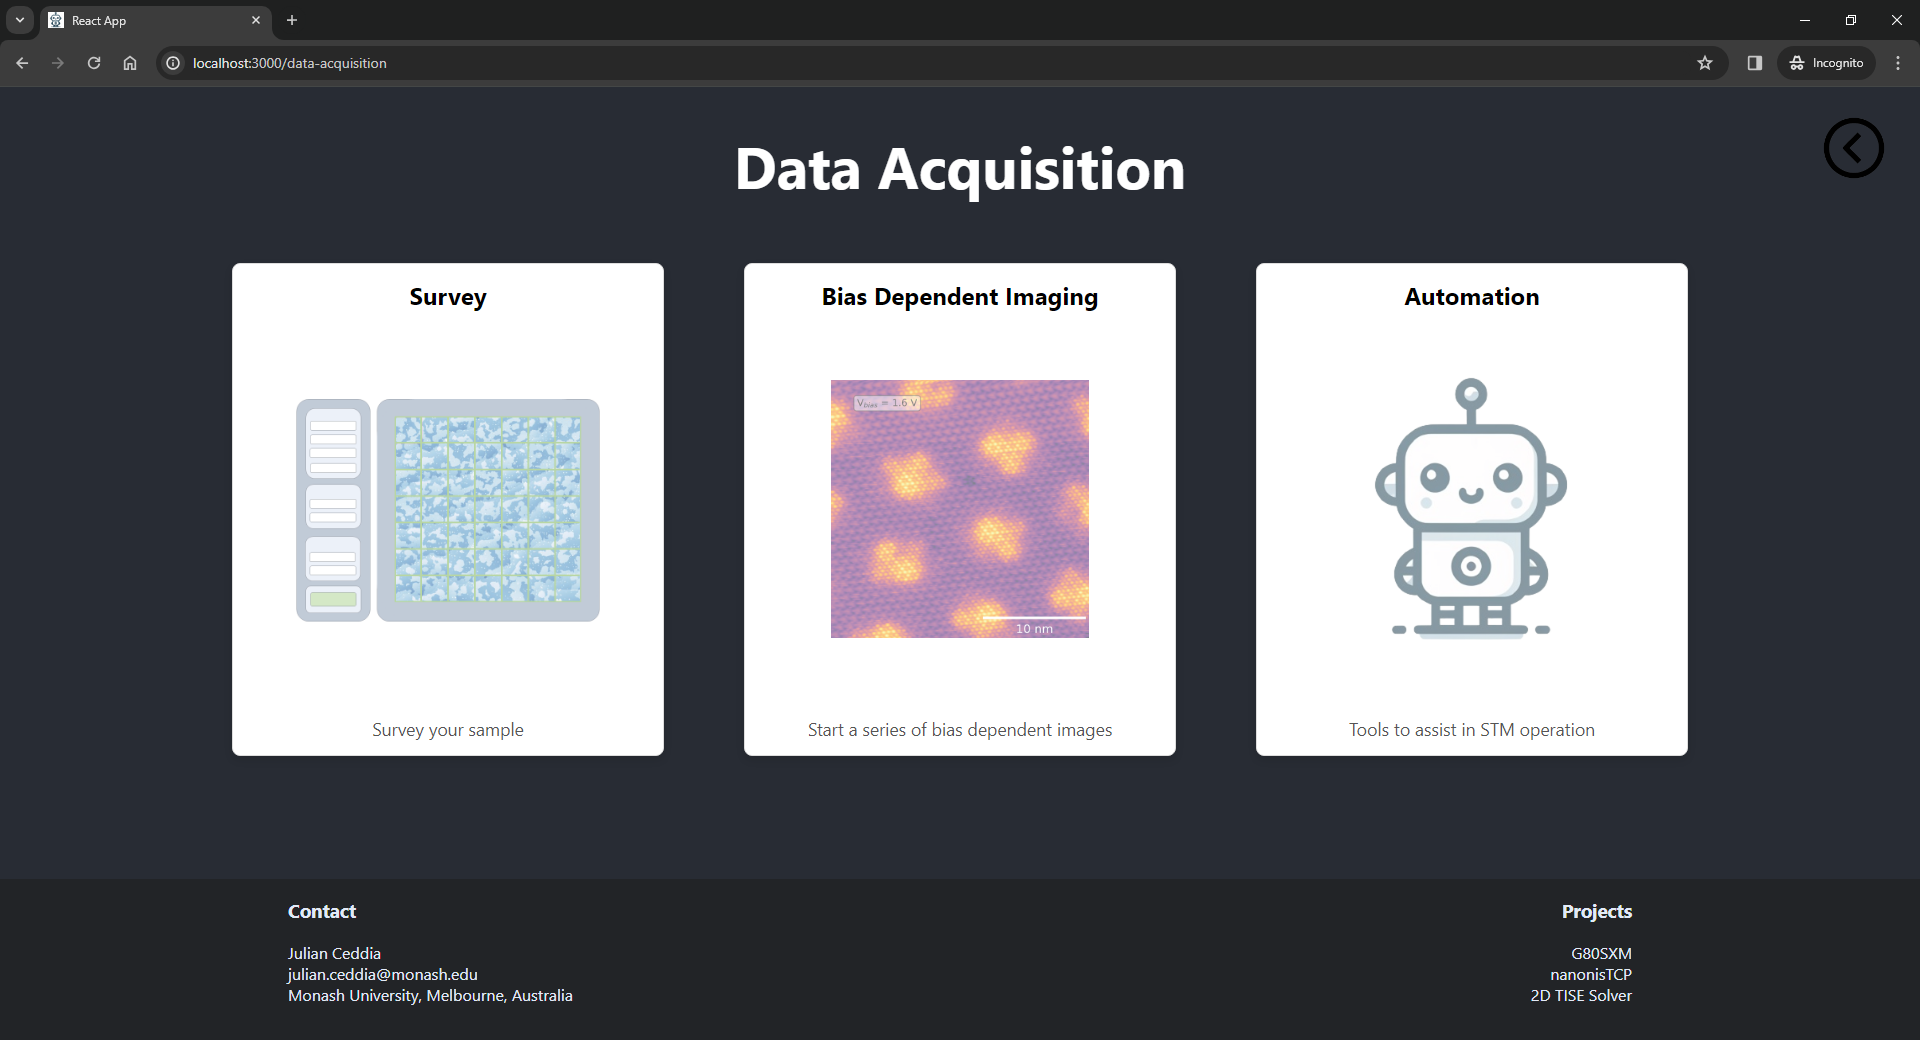
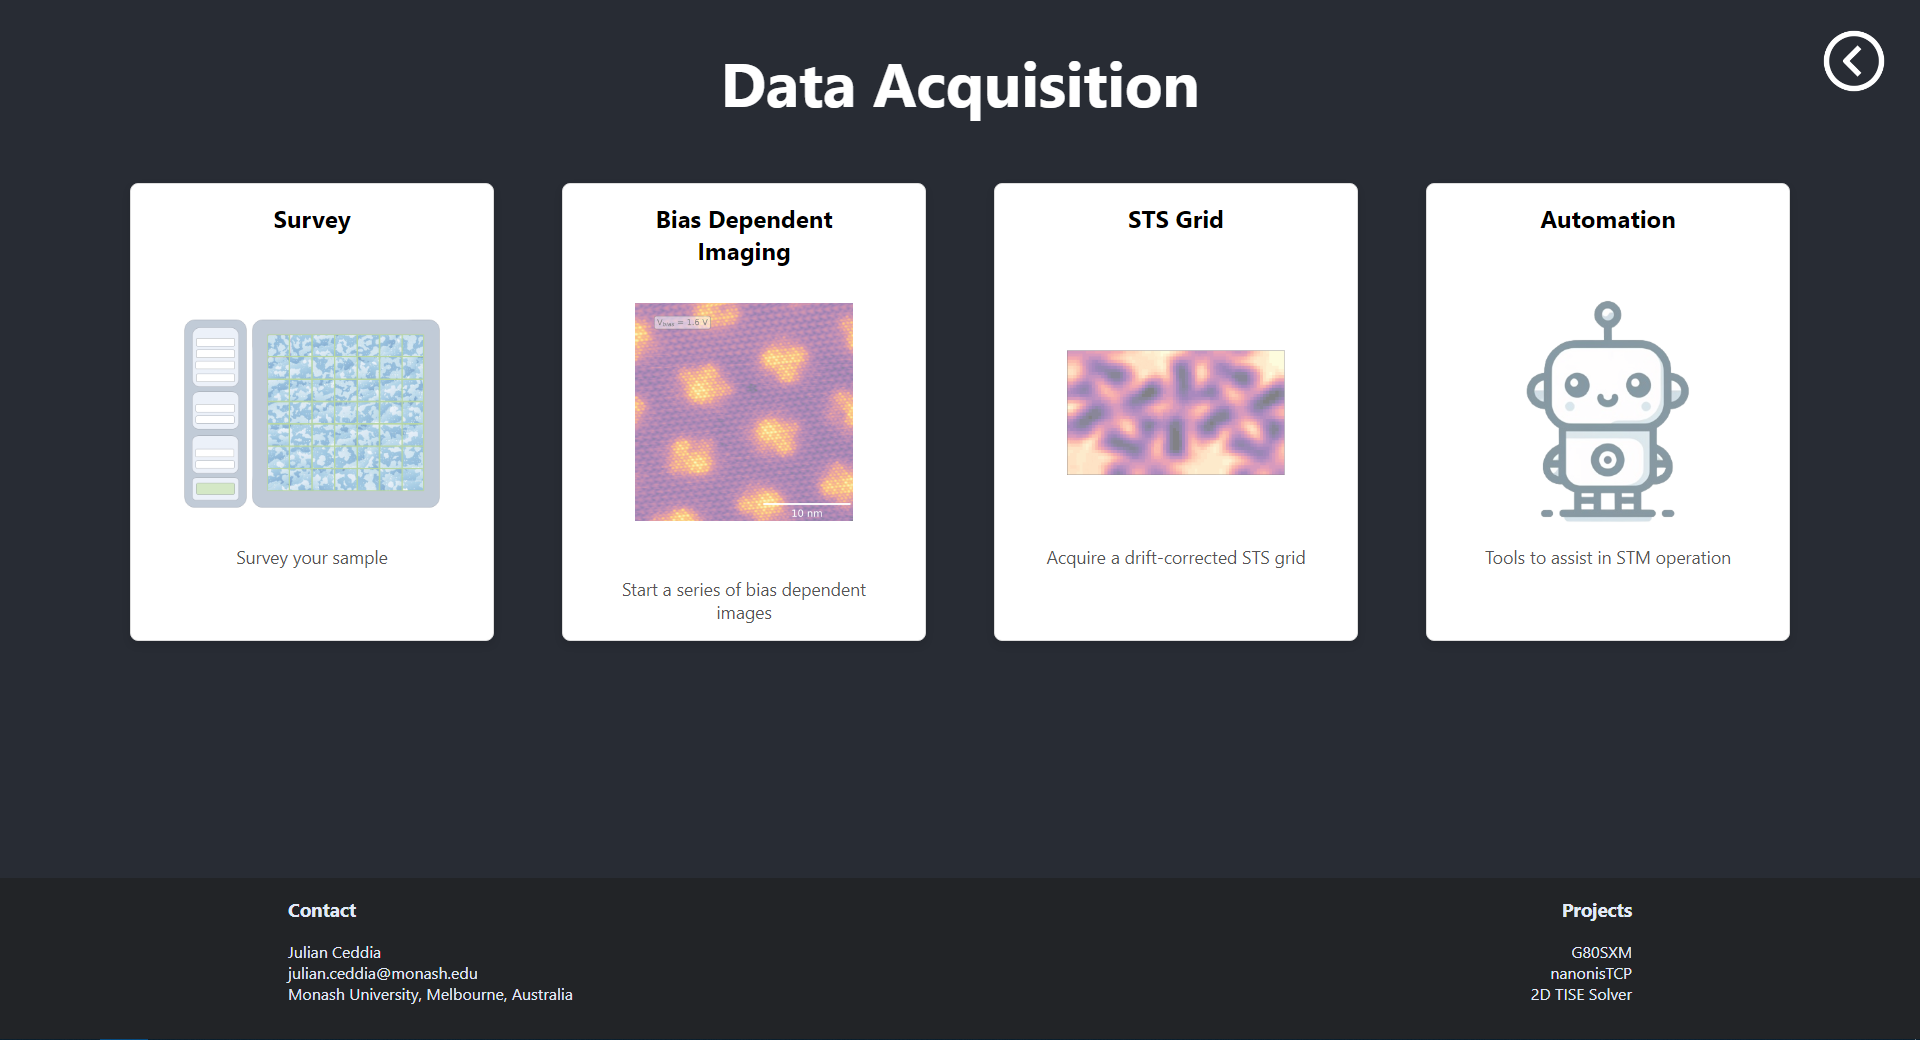
Deployed 6dda806 with MkDocs version: 1.5.3

diff --git a/web-app/index.html b/web-app/index.html
@@ -133,6 +133,10 @@
               <ul class="nav flex-column">
               </ul>
             </li>
+            <li class="nav-item" data-level="2"><a href="#sts-grid" class="nav-link">STS Grid</a>
+              <ul class="nav flex-column">
+              </ul>
+            </li>
               </ul>
             </li>
             
@@ -371,6 +375,94 @@ Note that answering <code>Yes</code> to <code>Auto tip shaping?</code>, is only 
 </tr>
 </tbody>
 </table>
+<h2 id="sts-grid">STS Grid</h2>
+<p>The STS Grid function lets you acquire a drift-corrected STS map.
+The plot area will show the latest drift-correction image alongside a gif of previous drift-correction images to keep track of overall drift during the experiment.
+The process of the experiment is as follows:</p>
+<ol>
+<li>The existing Pattern Grid is loaded in from Nanonis.</li>
+<li>A check is carried out to ensure the STM tip and the grid centre are both within the current scan frame. If not, the scan will not start.</li>
+<li>An image is taken in the upward scan direction as a reference to measure future drift. The image bias and setpoint can be configured in the settings.</li>
+<li>The bias and setpoint are adjusted to configured values, then tip moves to the first location in the grid.</li>
+<li>The STS setpoint current and bias is then applied before acquiring a spectrum.</li>
+<li>Steps 4 and 5 are repeated until a configurable number of spectra are taken. <strong>Note that the setpoint at which the tip moves between grid points can be different to that of the acquired spectra.<strong></strong></strong></li>
+<li>A drift correction image is acquired and compared with the original frame. If any drift is detected, the scan frame and grid centre are updated to compensate. <strong>Note that the bias and setpoint current of the drift correction images can be configured differently to that of the acquired spectra.</strong></li>
+<li>Steps 4 to 7 are repeated until the grid completes.</li>
+</ol>
+<p>The output grid data (apart from being autosaved as individual .dat files by Nanonis) will be saved in the specified directory in the form of a <a href="https://www.geeksforgeeks.org/understanding-python-pickling-example/">pickled</a> Python dictionary with the following structure:</p>
+<pre><code class="language-Python">grid_data['sweep_signal'] # contains the sweep signal, in this case it is the nanonis "bias calc (V)" signal
+grid_data[&lt;channel_name&gt;] # contains a 3D matrix of the grid data, where axis 0 and 1 are the spatial axes, while axis 2 is the measured signal axis.
+</code></pre>
+<p><strong>Note that <channel_name> can be any of the recorded channels highlighted in the Nanonis Bias Spectroscopy module.</channel_name></strong>
+The output grid file is never locked and will be updated in real-time after each spectrum within the grid is acquired.</p>
+<p><img alt="stsgridwindow" src="../appim/sts-grid.png"></p>
+<p>The following Python code shows how to visualise the output grid data:</p>
+<pre><code class="language-Python"># %%
+import pickle
+import matplotlib.pyplot as plt
+import numpy as np
+from scipy.signal import savgol_filter as savgol
+import matplotlib.animation as animation
+from scipy.ndimage import gaussian_filter as gaussian
+from scipy.stats import norm
+
+########## Parameters ##########
+path = "C:/Users/&lt;path to your folder/"                                         # Path where the grid data file is saved
+filename = "scanbot-sts-grid.pk"                                                # Filename of the grid data to plot
+channel  = 'Current (A)'                                                        # Channel to plot
+deriv    = True                                                                 # Take the derivative of the signal? (e.g. dIdV from current)
+bias     = -0.1                                                                 # Bias slice to plot from the grid data
+makeGif  = True                                                                 # Turn data into gif. can take a long time.
+gif_n    = 10                                                                   # Take every gif_nth slice in the grid so the gif isn't so large
+########## Parameters ##########
+
+pk = pickle.load(open(path + filename,'rb'))                                    # Loads in the .pk grid file
+
+data  = pk['data']
+sweep = data['sweep_signal']                                                    # Sweep signal is the bias for bias spectroscopy
+grid  = np.flipud(np.array(data[channel]))                                      # Extract the signal for the selected channel. Use np.flipud because the first point in the grid is at the bottom.
+if(deriv):
+    # increasing the window_lenth increases the smoothing before taking the derivative
+    grid = savgol(grid, window_length=3, polyorder=1, deriv=1, axis=2)          # Take the derivative to get dI/dV
+
+index = np.argmin(abs(sweep - bias))                                            # Index of the bias we want to plot
+gridSlice = grid[:,:,index].copy()                                              # Take a slice out of the grid at the selected bias
+
+mask = gridSlice == 0
+gridSlice[mask] = np.nan                                                        # Make the zeros nan so they don't spoil the contrast when plotting
+
+# Plotting a slice of the grid
+fig = plt.figure()
+ax  = fig.add_subplot(111)
+ax.imshow(gridSlice)
+
+if(makeGif):                                                                    # Create and save a gif of the output grid
+    fig = plt.figure(1,figsize=(10,5))
+    ax = fig.add_subplot(111)
+
+    ims = []                                                                    # Array of images to be turned into gif
+    for i in range(0,np.size(grid,2)):                                          # Loop through all of the slices in the grid
+        if(i%gif_n): continue                                                   # Only use every gif_nth frame in the gif to save time and space
+        image = grid[:,:,i]
+
+        image = gaussian(image,1)                                               # Spatial filtering... Comment this line out if you don't want any spatial filtering
+
+        #Define colour scale saturation
+        mu, sigma = norm.fit(image)
+        vmin = mu - 2*sigma
+        vmax = mu + 2*sigma
+
+        #Plot
+        im = plt.imshow(image,cmap='magma',animated=True,origin='lower',vmin=vmin,vmax=vmax)
+        plt.axis('off')
+        ttl = plt.text(0.5, 1.01, "Bias = %f V" % sweep[i], horizontalalignment='center', verticalalignment='bottom', transform=ax.transAxes)
+
+        ims.append([im,ttl])
+
+    ani = animation.ArtistAnimation(fig,ims,interval=200,blit=True,repeat_delay=1000)
+    ani.save(path + filename + '.gif',writer='imagemagick')                     # save the gif
+
+</code></pre>
 <h1 id="automation">Automation</h1>
 <p>From the Automation screen, you can initiate the following actions:</p>
 <ul>

diff --git a/index.html b/index.html
@@ -350,5 +350,5 @@ We are committed to providing support and will do our best to assist you promptl
 
 <!--
 MkDocs version : 1.5.3
-Build Date UTC : 2024-04-15 04:07:23.381007+00:00
+Build Date UTC : 2024-04-19 10:29:46.358212+00:00
 -->
